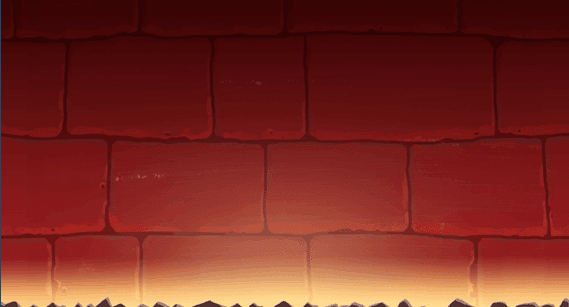
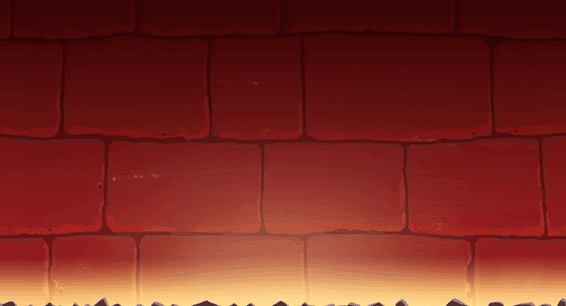
move background
뒷배경 두개를 이어 붙여서 뒤로 이동하여 화면 밖으로 나가면 다시 앞쪽으로 옮겨가면서 계속 앞으로 가는 애니메이션을 만들었다

diff --git a/background.py b/background.py
@@ -9,17 +9,29 @@ background = None
 
 class Background:
     def __init__(self):
-        self.image = load_image('resource/background.png')
-        self.image2 = load_image('resource/background1.png')
+        self.background = load_image('resource/background.png')
+        self.background2 = load_image('resource/background.png')
+        self.fire = load_image('resource/background1.png')
         self.path = load_image('resource/Episode 1 - Escape from the Oven/1. The Witch Oven/epN01_tm01_tb1.png')
+        self.backGround_x = 500
+        self.backGround_x2 = 1500
+
+        # self.path[]
         pass
 
     def update(self):
+        self.backGround_x -= 0.1
+        self.backGround_x2 -= 0.1
+        if (self.backGround_x < -500):
+            self.backGround_x = 1500
+        if self.backGround_x2 < -500:
+            self.backGround_x2 = 1500
         pass
 
     def draw(self):
-        self.image.clip_draw(0, 0, 1000, 500, 500, 250)
-        self.image2.clip_draw(0, 0, 1000, 100, 500, 50)
+        self.background.clip_draw(0, 0, 1000, 500, self.backGround_x, 250)
+        self.background.clip_draw(0, 0, 1000, 500, self.backGround_x2, 250)
+        self.fire.clip_draw(0, 0, 1000, 100, 500, 50)
         for n in range(10):
             self.path.clip_draw(0, 0, 124, 120, 124 * n, 10)
         pass
@@ -38,6 +50,8 @@ def exit():
 
 
 def update():
+    global background
+    background.update()
     pass
 
 
